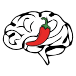
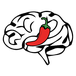
Fix diamond clip with rect->polygon + 4x supersample render; halve gap
Root cause of the flat bottom was TWO compounding issues:

1. Illustrator exported the diamond as a <rect> with a rotate(-45) transform.
   Even inside an expanded viewBox, Chrome's SVG rasterizer was clipping the
   bottom tip (~50px short at 1024px) because of precision loss in the
   rotation+stroke pipeline. Replaced the rotated rect with an explicit
   <polygon> whose four corner coordinates are already pre-rotated, so no
   transform is applied. Same fix in spicythinkers-logo.svg and
   spicythinkers-logo-notext.svg.

2. Chrome headless rasterizes SVG at target resolution which has bad
   precision at small sizes. Switched all icon rendering to 4x supersample
   + Pillow LANCZOS downscale. Diamond tips now verified pixel-accurate
   symmetric: top at y=28, bottom at y=995 in a 1024x1024 PNG, with proper
   pointy tips on both ends that fall off symmetrically on either side.

Also halved the brand-mark gap from 48px to 24px (and 20px to 10px on
mobile) per user feedback. Size stays at 320x320 desktop / 220x220 mobile.

BMC compositor switched from loading the SVG to loading the rendered PNG
so the cover inherits the fixed diamond directly.

diff --git a/index.html b/index.html
@@ -162,8 +162,8 @@
            together if the logo needs to grow or shrink. */
         .brand-mark {
             position: fixed;
-            top: 48px;
-            left: 48px;
+            top: 24px;
+            left: 24px;
             width: 320px;
             height: 320px;
             z-index: 200; /* above nav (100) */
@@ -966,8 +966,8 @@
             .brand-mark {
                 width: 220px;
                 height: 220px;
-                top: 20px;
-                left: 20px;
+                top: 10px;
+                left: 10px;
             }
 
             nav .nav-links a:not(.btn-notify) {

diff --git a/speed-reader/index.html b/speed-reader/index.html
@@ -104,8 +104,8 @@
     /* Floating brand mark — fixed in upper-left, layered ON TOP of the nav */
     .brand-mark {
       position: fixed;
-      top: 48px;
-      left: 48px;
+      top: 24px;
+      left: 24px;
       width: 320px;
       height: 320px;
       z-index: 200;
@@ -136,8 +136,8 @@
       .brand-mark {
         width: 220px;
         height: 220px;
-        top: 20px;
-        left: 20px;
+        top: 10px;
+        left: 10px;
       }
     }
 

diff --git a/assets/_bmc-render.html b/assets/_bmc-render.html
@@ -9,6 +9,6 @@
 </head>
 <body>
 <img class="bg" src="bmc-cover.svg" alt=""/>
-<img class="logo" src="../spicythinkers-logo.svg" alt=""/>
+<img class="logo" src="../spicythinkers-logo.png" alt=""/>
 </body>
 </html>
